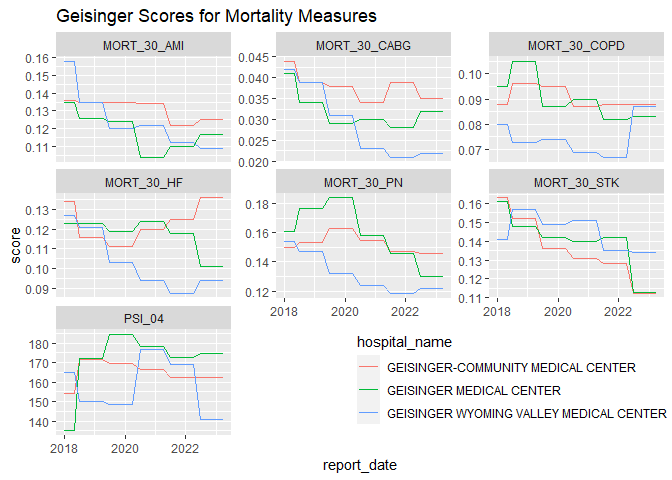
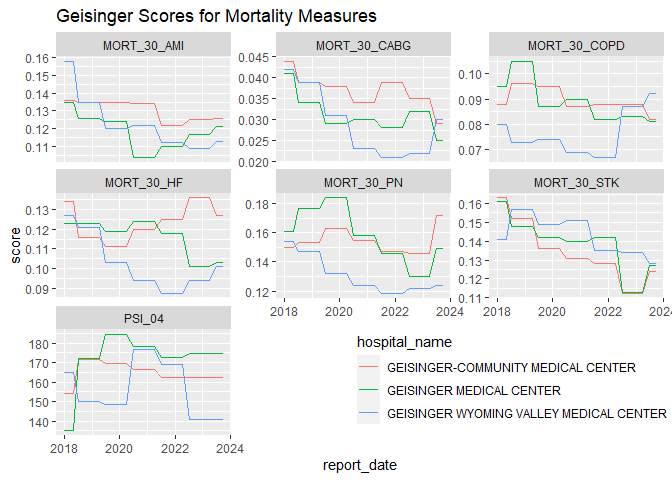
Updated README for 2023 Q4

diff --git a/README.md b/README.md
@@ -82,7 +82,7 @@ names are a little long, so they’re limited to 60 characters here.
 ``` r
 mortality_df <-
   measure_info_df %>%
-  filter(report_date == "2023-04-01", measure_group == "Mortality")
+  filter(report_date == "2023-10-01", measure_group == "Mortality")
 
 mortality_df %>%
   transmute(measure_id, measure_name = str_sub(measure_name, end = 60))
@@ -145,36 +145,36 @@ made of Care Compare data. Its argument `report_date` specifies the
 first day of the month the Care Compare report was released.
 
 Then `compute_star_scores()` will calculate the star ratings (using the
-July 2022 version by default). The results are returned in a copy of the
+July 2023 version by default). The results are returned in a copy of the
 input table with extra columns added.
 
 ``` r
-input_df <- star_rating_input(report_date = "2021-07-01")
+input_df <- star_rating_input(report_date = "2023-01-01")
 output_df <- compute_star_scores(input_df)
 
 output_df %>%
   filter(PROVIDER_ID %in% geisinger_df$PROVIDER_ID) %>%
   select(PROVIDER_ID, peer_group = n_groups, summary_score, stars)
 #>   PROVIDER_ID peer_group summary_score stars
-#> 1      390001          5    -0.1094848     3
-#> 2      390006          5     0.2596142     4
-#> 3      390270          5     0.4065224     5
+#> 1      390001          5    0.09732463     4
+#> 2      390006          5    0.30614614     4
+#> 3      390270          5    0.35972998     4
 ```
 
 `hospitalstars` also includes a copy of the SAS Package’s output, which
 was computed in SAS.
 
 ``` r
-sas_package$v202207$output_df %>%
+sas_package$v202307$output_df %>%
   select(
     PROVIDER_ID, peer_group = Total_measure_group_cnt,
     summary_score, stars = star
   ) %>%
   filter(PROVIDER_ID %in% geisinger_df$PROVIDER_ID)
 #>   PROVIDER_ID peer_group summary_score stars
-#> 1      390001          5    -0.1145421     3
-#> 2      390006          5     0.2577293     4
-#> 3      390270          5     0.4062735     5
+#> 1      390001          5    0.09956553     4
+#> 2      390006          5    0.30740967     4
+#> 3      390270          5    0.36152747     4
 ```
 
 It may be interesting to note that the results in the last two code
@@ -184,13 +184,13 @@ used for the 2022 Star Ratings). If you use the SAS Package’s input file
 in R here, you should get the same output as you would in SAS.
 
 ``` r
-compute_star_scores(sas_package$v202207$input_df) %>%
+compute_star_scores(sas_package$v202307$input_df) %>%
   filter(PROVIDER_ID %in% geisinger_df$PROVIDER_ID) %>%
   select(PROVIDER_ID, peer_group = n_groups, summary_score, stars)
 #>   PROVIDER_ID peer_group summary_score stars
-#> 1      390001          5    -0.1145421     3
-#> 2      390006          5     0.2577293     4
-#> 3      390270          5     0.4062735     5
+#> 1      390001          5    0.09956553     4
+#> 2      390006          5    0.30740967     4
+#> 3      390270          5    0.36152747     4
 ```
 
 To see the specific measure values where the two disagree, you could use
@@ -200,7 +200,7 @@ measure.
 ``` r
 r_unpivoted_df <- input_df %>%
   pivot_longer(-PROVIDER_ID, names_to = "measure_id", values_to = "score_r")
-sas_unpivoted_df <- sas_package$v202207$input_df %>%
+sas_unpivoted_df <- sas_package$v202307$input_df %>%
   pivot_longer(-PROVIDER_ID, names_to = "measure_id", values_to = "score_sas")
 
 r_unpivoted_df %>%
@@ -215,14 +215,14 @@ r_unpivoted_df %>%
   arrange(desc(n)) %>%
   head()
 #> # A tibble: 6 × 2
-#>   measure_id             n
-#>   <chr>              <int>
-#> 1 OP_10               3823
-#> 2 READM_30_HIP_KNEE    222
-#> 3 COMP_HIP_KNEE         23
-#> 4 MORT_30_PN            15
-#> 5 EDAC_30_PN            14
-#> 6 READM_30_HOSP_WIDE    14
+#>   measure_id       n
+#>   <chr>        <int>
+#> 1 OP_18B         478
+#> 2 IMM_3          133
+#> 3 HCP_COVID_19   131
+#> 4 OP_22          111
+#> 5 OP_13          110
+#> 6 OP_29          101
 ```
 
 ## What-if Analysis
@@ -239,13 +239,13 @@ input_df %>%
   inner_join(geis_names_df, by = "PROVIDER_ID") %>%
   select_at(c("hospital_name", mortality_df$measure_id))
 #>                             hospital_name MORT_30_AMI MORT_30_CABG MORT_30_COPD
-#> 1      GEISINGER-COMMUNITY MEDICAL CENTER       0.122        0.039        0.088
-#> 2                GEISINGER MEDICAL CENTER       0.110        0.028        0.082
-#> 3 GEISINGER WYOMING VALLEY MEDICAL CENTER       0.112        0.021        0.067
+#> 1      GEISINGER-COMMUNITY MEDICAL CENTER       0.125        0.035        0.088
+#> 2                GEISINGER MEDICAL CENTER       0.117        0.032        0.083
+#> 3 GEISINGER WYOMING VALLEY MEDICAL CENTER       0.109        0.022        0.087
 #>   MORT_30_HF MORT_30_PN MORT_30_STK PSI_04
-#> 1      0.125      0.147       0.128 162.11
-#> 2      0.118      0.146       0.142 172.67
-#> 3      0.087      0.118       0.135 168.82
+#> 1      0.136      0.146       0.112 162.13
+#> 2      0.101      0.130       0.113 174.50
+#> 3      0.094      0.122       0.134 140.58
 ```
 
 Create a new input table where those scores are improved by 5%.
@@ -262,13 +262,13 @@ new_input_df %>%
   inner_join(geis_names_df, by = "PROVIDER_ID") %>%
   select_at(c("hospital_name", mortality_df$measure_id))
 #>                             hospital_name MORT_30_AMI MORT_30_CABG MORT_30_COPD
-#> 1      GEISINGER-COMMUNITY MEDICAL CENTER      0.1159      0.03705      0.08360
-#> 2                GEISINGER MEDICAL CENTER      0.1045      0.02660      0.07790
-#> 3 GEISINGER WYOMING VALLEY MEDICAL CENTER      0.1064      0.01995      0.06365
+#> 1      GEISINGER-COMMUNITY MEDICAL CENTER     0.11875      0.03325      0.08360
+#> 2                GEISINGER MEDICAL CENTER     0.11115      0.03040      0.07885
+#> 3 GEISINGER WYOMING VALLEY MEDICAL CENTER     0.10355      0.02090      0.08265
 #>   MORT_30_HF MORT_30_PN MORT_30_STK   PSI_04
-#> 1    0.11875    0.13965     0.12160 154.0045
-#> 2    0.11210    0.13870     0.13490 164.0365
-#> 3    0.08265    0.11210     0.12825 160.3790
+#> 1    0.12920     0.1387     0.10640 154.0235
+#> 2    0.09595     0.1235     0.10735 165.7750
+#> 3    0.08930     0.1159     0.12730 133.5510
 ```
 
 Then recompute the star scores.
@@ -280,10 +280,10 @@ new_output_df %>%
   inner_join(geis_names_df, by = "PROVIDER_ID") %>%
   select(hospital_name, peer_group = n_groups, summary_score, stars)
 #>                             hospital_name peer_group summary_score stars
-#> 1      GEISINGER-COMMUNITY MEDICAL CENTER          5    0.03001759     4
-#> 2                GEISINGER MEDICAL CENTER          5    0.39356969     5
-#> 3 GEISINGER WYOMING VALLEY MEDICAL CENTER          5    0.52594285     5
+#> 1      GEISINGER-COMMUNITY MEDICAL CENTER          5     0.2187725     4
+#> 2                GEISINGER MEDICAL CENTER          5     0.4196913     5
+#> 3 GEISINGER WYOMING VALLEY MEDICAL CENTER          5     0.4658343     5
 ```
 
 So improving all 7 Mortality scores by 5% changed the overall star
-ratings from 3, 4 and 5 to 4, 5 and 5.
+ratings from 4, 4 and 4 to 4, 5 and 5.
